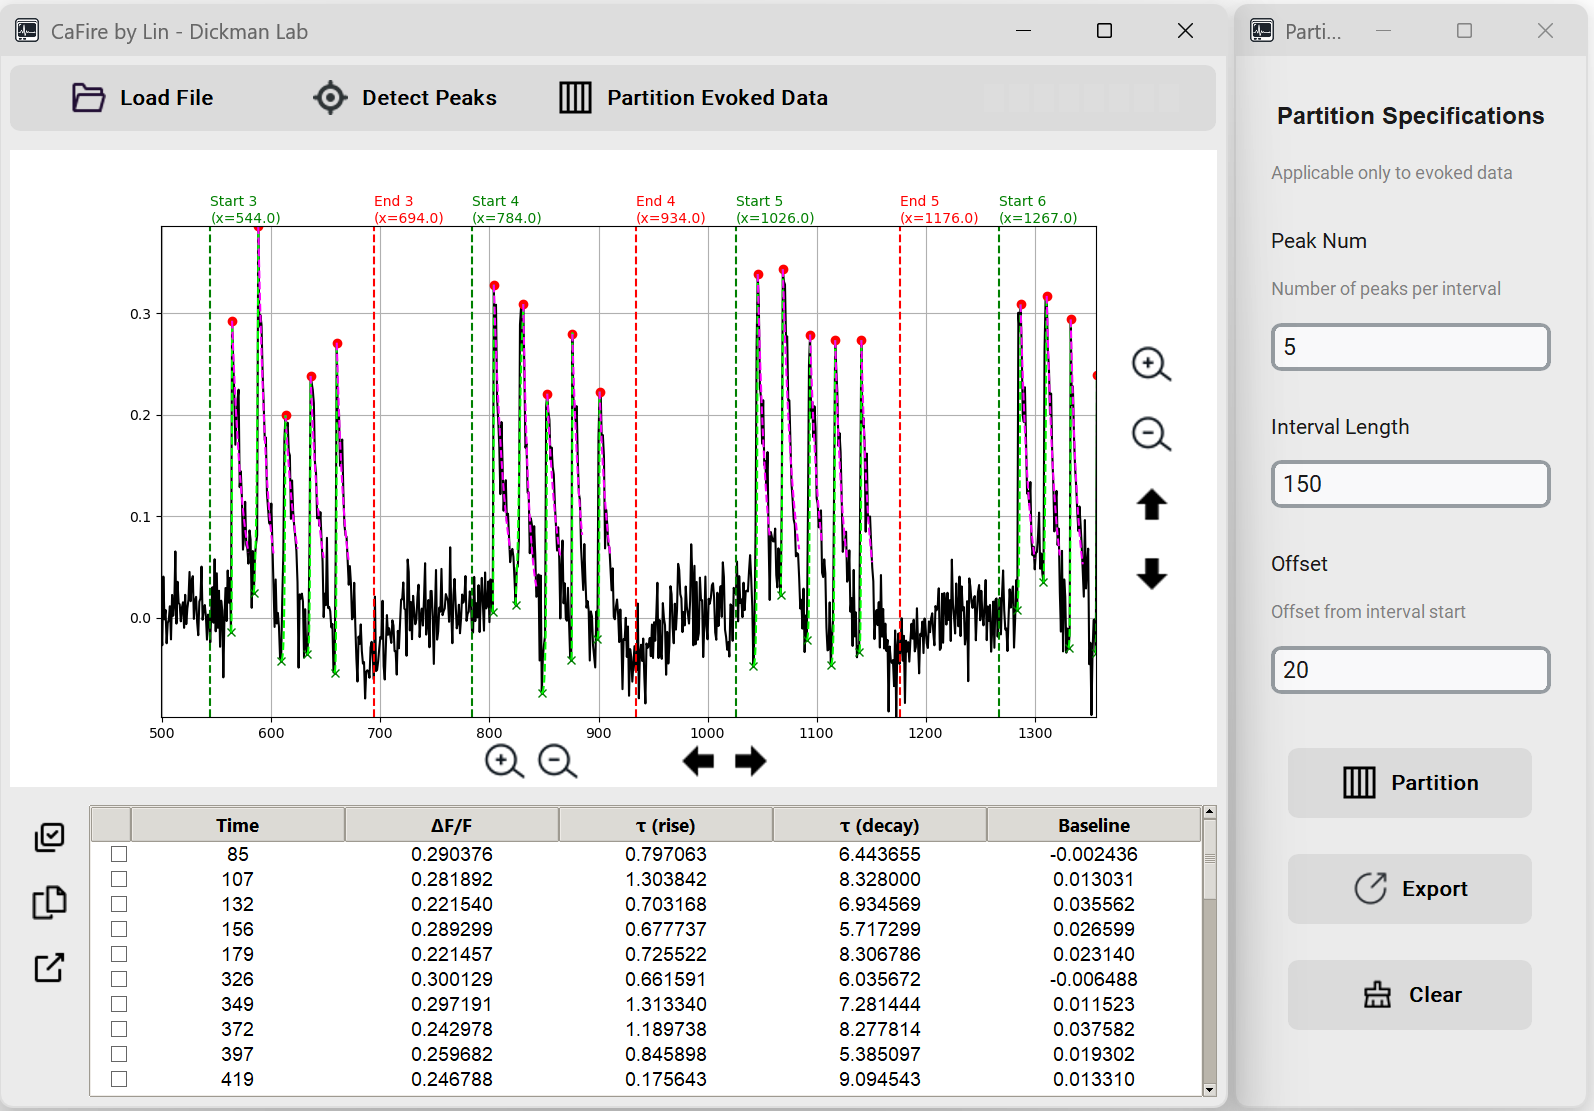
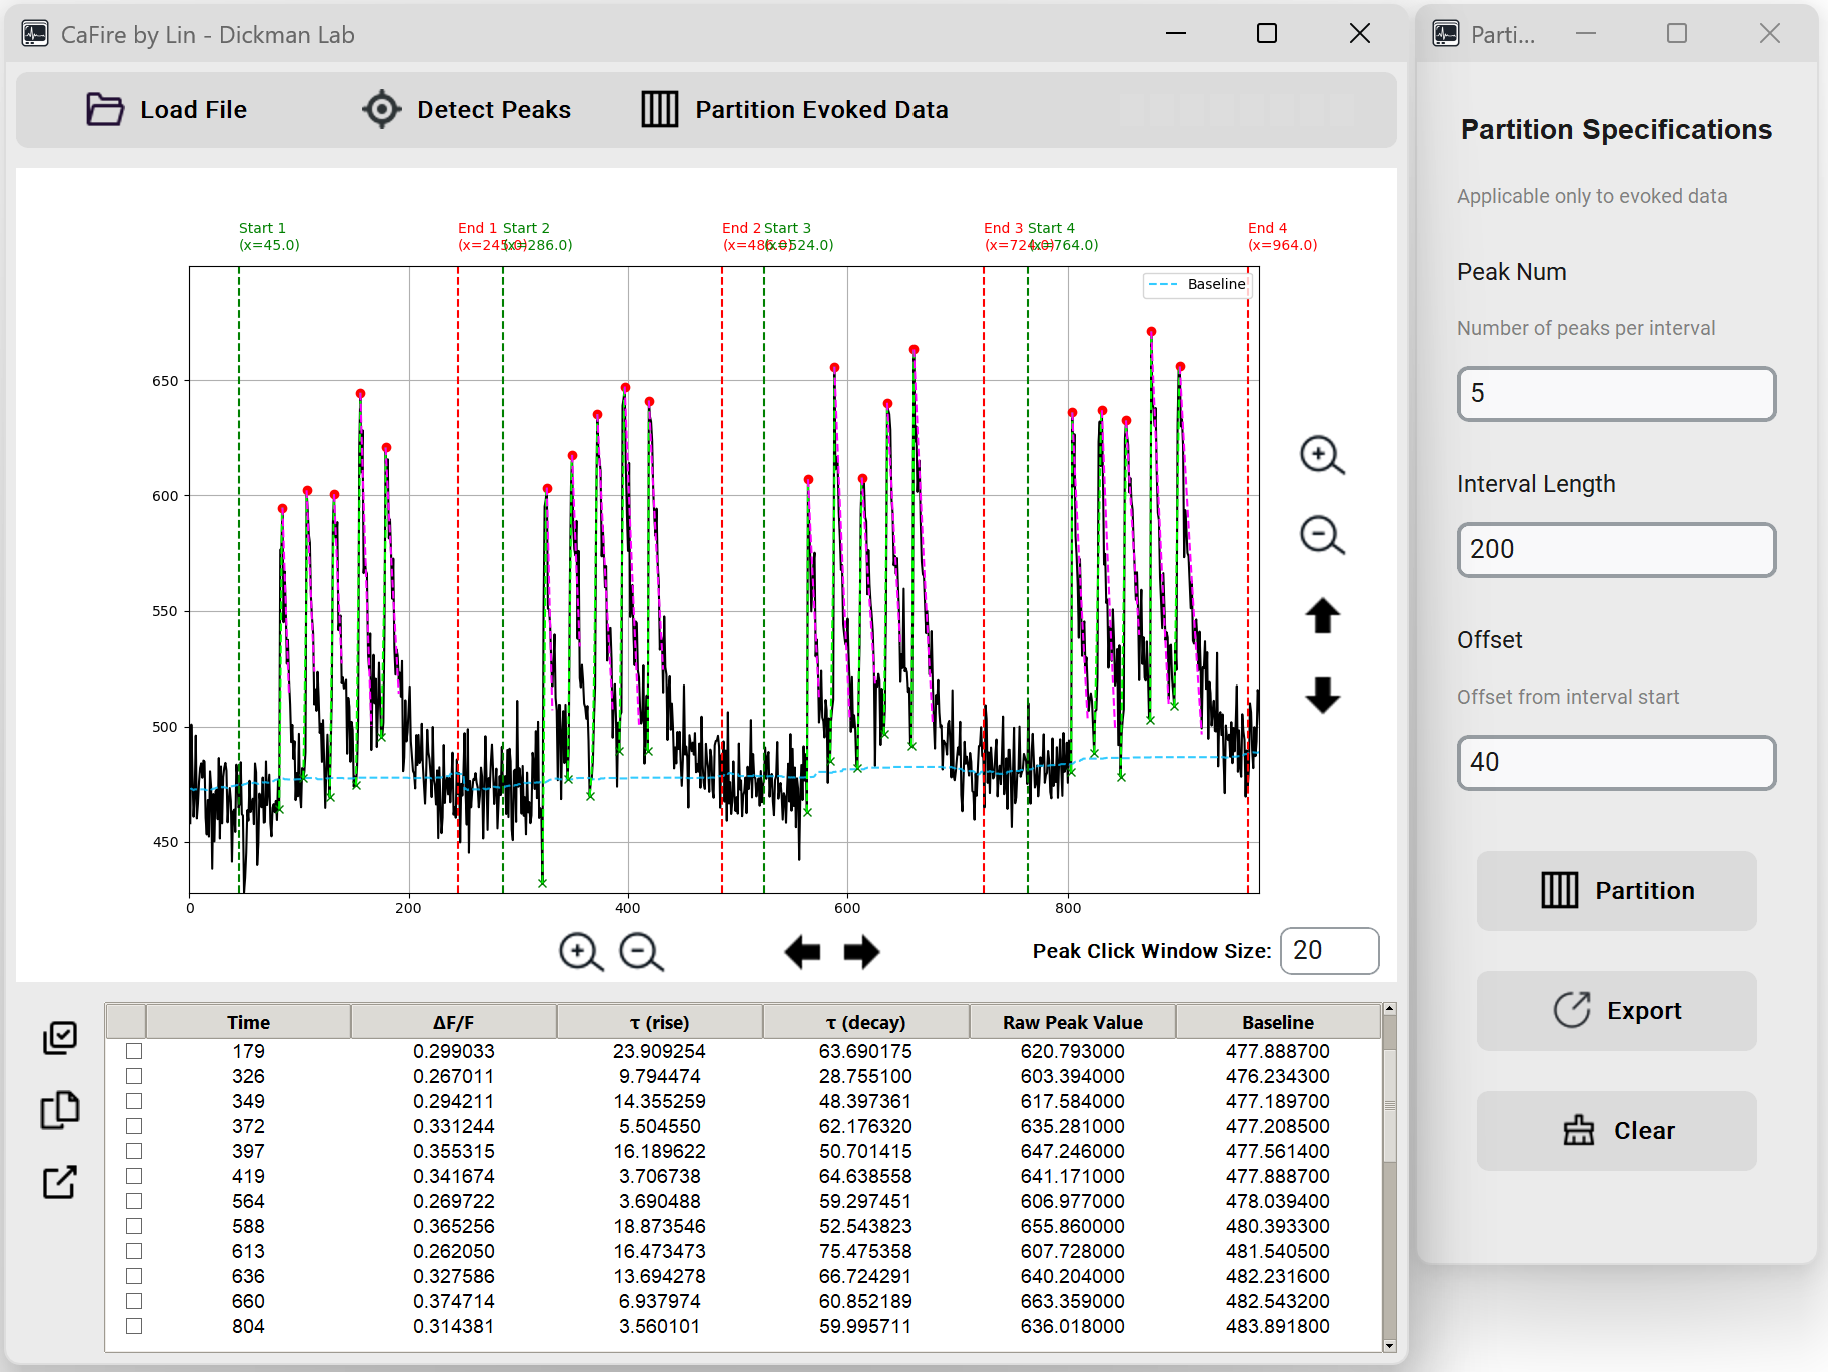
v2.2.1

diff --git a/ui/main_window.py b/ui/main_window.py
@@ -289,34 +289,34 @@ def setup_canvas_frame(app):
 
     app.click_window_size_frame = customtkinter.CTkFrame(
         app.canvas_frame,
-        fg_color="#ffffff",
+        fg_color="white",       
+        bg_color="white",       
         border_width=0,
-        corner_radius=0,  
-        border_color="white",
-        bg_color="transparent"
+        corner_radius=0
     )
-    app.click_window_size_frame.place(relx=1.0, rely=0.0, x=-5, y=5, anchor="ne")
+    app.click_window_size_frame.place(relx=1.0, rely=1.0, x=-5, y=5, anchor="se")
 
     app.click_window_size_label = customtkinter.CTkLabel(
         app.click_window_size_frame,
         text="Peak Click Window Size:",
-        font=customtkinter.CTkFont(size=11, weight="bold"),
+        font=customtkinter.CTkFont(size=10, weight="bold"),
         text_color="black"   
     )
-    app.click_window_size_label.pack(side="left", padx=(6, 4), pady=6)
+    app.click_window_size_label.pack(side="left", padx=(6, 4), pady=4)
 
     app.click_window_size_entry = customtkinter.CTkEntry(
         app.click_window_size_frame,
         width=50,
+        height=24,
         corner_radius=6,
         border_width=1,
         fg_color="#ffffff"
     )
-    app.click_window_size_entry.pack(side="left", padx=(0, 6), pady=6)
+    app.click_window_size_entry.pack(side="left", padx=(0, 6), pady=4)
 
     def reposition_click_window_size_frame(event=None):
         if app.click_window_size_frame.winfo_ismapped():
-            app.click_window_size_frame.place_configure(relx=1.0, rely=0.0, x=-5, y=5)
+            app.click_window_size_frame.place_configure(relx=1.0, rely=1.0, x=-5, y=5)
 
     app.canvas_frame.bind("<Configure>", reposition_click_window_size_frame)
 

diff --git a/utils/table_operations_utils.py b/utils/table_operations_utils.py
@@ -210,7 +210,7 @@ def handle_tree_right_click(app, event):
             column_name = app.tree["columns"][column_id - 1]
             
             # If the column is Decay Time, show the context menu
-            if column_name == "Decay Time":
+            if column_name == "τ (decay)":
                 app.right_clicked_column = column_name
                 app.context_menu.post(event.x_root, event.y_root)
     
@@ -321,7 +321,7 @@ def update_table(app):
 
 def recalculate_column(app):
     """Recalculate the selected column"""
-    if hasattr(app, 'right_clicked_column') and app.right_clicked_column == "Decay Time":
+    if hasattr(app, 'right_clicked_column') and app.right_clicked_column == "τ (decay)":
         # Clear all decay curves
         for line in app.decay_lines:
             line.remove()

diff --git a/README.md b/README.md
@@ -8,6 +8,7 @@ CaFire is a Python-based software designed for calcium imaging data analysis. It
 
 - **Data Loading and Processing**
   - Support for Excel file formats
+  - Supports baseline calculation using customizable window size and percentile settings
   - Automatic ΔF/F calculation
   - Automatically perform ΔR/R conversion after loading the RFP channel
   
@@ -47,7 +48,7 @@ python main.py
 Or build into an exe file and execute:
 
 ```bash
-pyinstaller CaFire.spec
+pyinstaller main.py --onefile --noconsole --name="CaFire" --icon=assets/ecg_icon.ico --add-data "assets;assets"
 ```
 
 ## Requirements
@@ -69,20 +70,22 @@ pyinstaller CaFire.spec
 1. Click the "Load File" button
 2. Select your Excel file
 3. Specify the sheet name and column names for time and fluorescence data
-4. Choose whether to analyze evoked or miniature events
-5. Choose whether to convert to ΔF/F format
+4. Set the baseline calculation parameters — window size and percentile
+5. Choose whether to analyze evoked or miniature events
+6. Choose whether to convert to ΔF/F format
 
 ### Peak Detection
 
 1. Click the "Detect Peaks" button
 2. Set detection parameters:
-   - Peak threshold
+   - Peak threshold (required)
    - Minimum distance between peaks
    - Peak width
 3. Review detected peaks
-4. Manually add or remove peaks by clicking on the plot
-5. Review all the fitted curves
-6. For peaks with poor decay fitting, right-click "Decay Time" in the table and click recalculate
+4. Enter the peak click window size in the upper-right input box
+5. Manually add or remove peaks by clicking on the plot
+6. Review all the fitted curves
+7. For peaks with poor decay fitting, right-click "Decay Time" in the table and click recalculate
 
 ### Evoked Response Analysis
 This feature is only applicable to evoked data.
